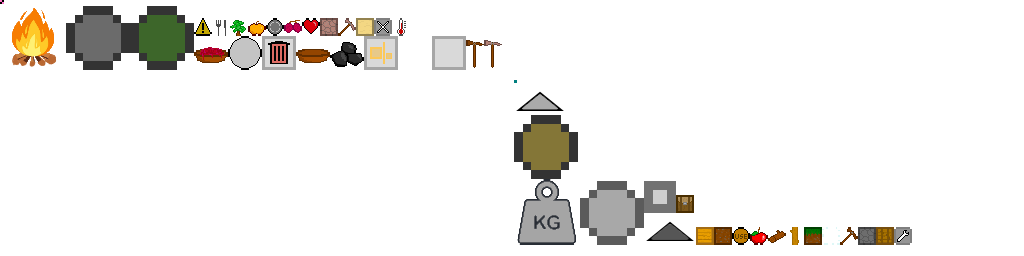
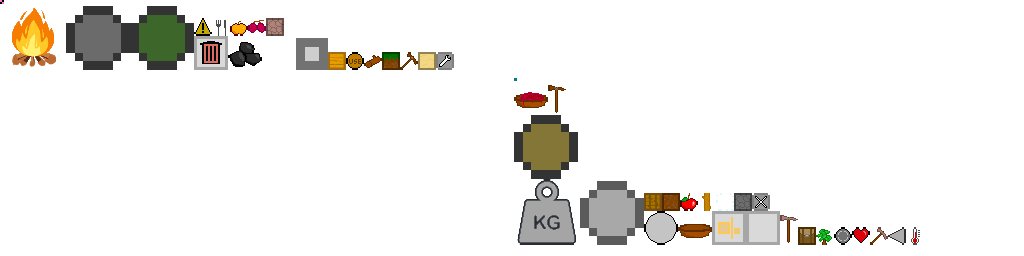
Performance boost. Changed HotSlots arrows.

Changed region(s): [[0.1875, 0.0625, 0.5, 0.2812], [0.625, 0.6875, 0.9062, 0.9688], [0.5, 0.3438, 0.5625, 0.4375]]

diff --git a/core/src/com/astetyne/expirium/client/gui/roots/game/GameRoot.java b/core/src/com/astetyne/expirium/client/gui/roots/game/GameRoot.java
@@ -27,14 +27,14 @@ import com.badlogic.gdx.utils.Align;
 
 public class GameRoot extends WidgetGroup implements GameRootable {
 
-    private final Table hotSlotsTable, debugInfoTable, playerStatsTable;
+    private final Table debugInfoTable, playerStatsTable;
 
     private final Label fpsLabel, locationLabel, entityLabel, callsLabel, buffersLabel, versionLabel, healthStat, foodStat;
     private final Image healthImage, foodImage;
     private final HotBarSlot toolSlot, materialSlot, consumableSlot;
     private HotBarSlot focusedSlot, lastFocused;
     public final ThumbStick moveTS, breakTS;
-    private final SwitchArrow switchArrowUp, switchArrowDown;
+    private final SwitchArrow switchArrowLeft, switchArrowRight;
     private final Image inventoryButton, consumeButton, buildViewButton, settingsButton;
     private Actor activeLeftActor;
 
@@ -50,8 +50,8 @@ public class GameRoot extends WidgetGroup implements GameRootable {
         lastFocused = toolSlot;
         focusedSlot = toolSlot;
 
-        switchArrowUp = new SwitchArrow(Res.SWITCH_ARROW_STYLE, UIInteractType.SWITCH_UP, false);
-        switchArrowDown = new SwitchArrow(Res.SWITCH_ARROW_STYLE, UIInteractType.SWITCH_DOWN, true);
+        switchArrowLeft = new SwitchArrow(Res.ARROW, UIInteractType.SWITCH_UP, false);
+        switchArrowRight = new SwitchArrow(Res.ARROW, UIInteractType.SWITCH_DOWN, true);
         inventoryButton = new Image(GuiRes.INV.getDrawable());
         consumeButton = new Image(GuiRes.USE_ICON.getDrawable());
         buildViewButton = new Image(GuiRes.WARNING_ICON.getDrawable());
@@ -89,7 +89,6 @@ public class GameRoot extends WidgetGroup implements GameRootable {
         moveTS = new ThumbStick(GameScreen.get().getPlayerData().getThumbStickData1(), Res.THUMB_STICK_STYLE);
         breakTS = new ThumbStick(GameScreen.get().getPlayerData().getThumbStickData2(), Res.THUMB_STICK_STYLE);
 
-        hotSlotsTable = new Table();
         debugInfoTable = new Table();
         playerStatsTable = new Table();
 
@@ -107,14 +106,6 @@ public class GameRoot extends WidgetGroup implements GameRootable {
 
         healthStat = new Label("0%", Res.LABEL_STYLE);
         foodStat = new Label("0%", Res.LABEL_STYLE);
-
-        hotSlotsTable.add(switchArrowUp).padBottom(10).colspan(3);
-        hotSlotsTable.row();
-        hotSlotsTable.add(toolSlot).padRight(20).width(120).height(Utils.percFromW(120));
-        hotSlotsTable.add(materialSlot).padRight(20).width(120).height(Utils.percFromW(120));;
-        hotSlotsTable.add(consumableSlot).width(120).height(Utils.percFromW(120));;
-        hotSlotsTable.row();
-        hotSlotsTable.add(switchArrowDown).padTop(10).colspan(3);
 
         if(Consts.DEBUG) {
             debugInfoTable.add(fpsLabel).left().height(50).padTop(10);
@@ -143,7 +134,6 @@ public class GameRoot extends WidgetGroup implements GameRootable {
         versionLabel.setBounds(140, 890, 200, 100);
         addActor(versionLabel);
         debugInfoTable.setBounds(0, 300, 500, 400);
-        if(Consts.DEBUG) debugInfoTable.setDebug(true);
         debugInfoTable.align(Align.topLeft);
         addActor(debugInfoTable);
         playerStatsTable.setBounds(1800, 850, 200, 150);
@@ -153,9 +143,27 @@ public class GameRoot extends WidgetGroup implements GameRootable {
         addActor(inventoryButton);
         moveTS.setBounds(140, 100, 320, Utils.percFromW(320));
         addActor(moveTS);
-        hotSlotsTable.setBounds(700, 50, 600, 500);
-        hotSlotsTable.align(Align.bottom);
-        addActor(hotSlotsTable);
+
+        int slotW = 120;
+        int slotH = (int) Utils.percFromW(slotW);
+        int arrowW = 100;
+        int arrowH = (int) Utils.percFromW(arrowW);
+        int gapBars = 20;
+        int gapArrows = 40;
+        int totalW = 2*arrowW + 2*gapBars + 2*gapArrows + 3*slotW;
+        int leftB = 1000 - totalW/2;
+
+        switchArrowLeft.setBounds(leftB, 50, arrowW, arrowH);
+        toolSlot.setBounds(leftB + arrowW + gapArrows, 50, slotW, slotH);
+        materialSlot.setBounds(leftB + arrowW + gapArrows + gapBars + slotW, 50, slotW, slotH);
+        consumableSlot.setBounds(leftB + arrowW + gapArrows + 2*gapBars + 2*slotW, 50, slotW, slotH);
+        switchArrowRight.setBounds(leftB + arrowW + 2*gapArrows + 2*gapBars + 3*slotW, 50, arrowW, arrowH);
+
+        addActor(switchArrowLeft);
+        addActor(toolSlot);
+        addActor(materialSlot);
+        addActor(consumableSlot);
+        addActor(switchArrowRight);
 
         breakTS.setBounds(1540, 100, 320, Utils.percFromW(320));
         addActor(breakTS);

diff --git a/core/src/com/astetyne/expirium/client/Res.java b/core/src/com/astetyne/expirium/client/Res.java
@@ -1,7 +1,6 @@
 package com.astetyne.expirium.client;
 
 import com.astetyne.expirium.client.gui.widget.BaseGrid;
-import com.astetyne.expirium.client.gui.widget.SwitchArrow;
 import com.astetyne.expirium.client.gui.widget.ThumbStick;
 import com.astetyne.expirium.client.resources.GuiRes;
 import com.badlogic.gdx.Gdx;
@@ -28,20 +27,17 @@ public class Res {
     public static TextField.TextFieldStyle TEXT_FIELD_STYLE;
     public static Label.LabelStyle LABEL_STYLE, TITLE_LABEL_STYLE;
     public static ThumbStick.ThumbStickStyle THUMB_STICK_STYLE;
-    public static SwitchArrow.SwitchArrowStyle SWITCH_ARROW_STYLE;
     public static BaseGrid.BaseGridStyle BASE_GRID_STYLE;
+    public static TextureRegion ARROW;
 
     // entities
     public static Animation<TextureRegion> PLAYER_IDLE_ANIM;
     public static Animation<TextureRegion> PLAYER_MOVE_ANIM;
     public static Animation<TextureRegion> PLAYER_INTERACT_ANIM;
 
-    public static void loadTextures() {
+    public static void loadTextures(TextureAtlas gui, TextureAtlas ent) {
 
         Animation.PlayMode loop_pong = Animation.PlayMode.LOOP_PINGPONG;
-
-        TextureAtlas gui = new TextureAtlas("gui.atlas");
-        TextureAtlas ent = new TextureAtlas("entities.atlas");
 
         /*FreeTypeFontGenerator gen = new FreeTypeFontGenerator(Gdx.files.internal("LadylikeBB.ttf"));
         //FreeTypeFontGenerator gen = new FreeTypeFontGenerator(Gdx.files.internal("Life is goofy.ttf"));
@@ -67,8 +63,7 @@ public class Res {
         Drawable cursor = new TextureRegionDrawable(gui.findRegion("cursor"));
         TextureRegion tsBack = gui.findRegion("thumb_stick_back");
         TextureRegion tsFore = gui.findRegion("thumb_stick_fore");
-        TextureRegion switchArrowUp = gui.findRegion("switch_arrow_up");
-        TextureRegion switchArrowUpPressed = gui.findRegion("switch_arrow_up_pressed");
+        ARROW = gui.findRegion("switch_arrow");
         TextureRegion invTile = gui.findRegion("inv_tile");
         TextureRegion invTileSplit = gui.findRegion("inv_tile_split");
         TextureRegion invTileThrow = gui.findRegion("trash_icon");
@@ -81,7 +76,6 @@ public class Res {
         LABEL_STYLE = new Label.LabelStyle(MAIN_FONT, Color.WHITE);
         TITLE_LABEL_STYLE = new Label.LabelStyle(TITLE_FONT, Color.WHITE);
         THUMB_STICK_STYLE = new ThumbStick.ThumbStickStyle(tsBack, tsFore);
-        SWITCH_ARROW_STYLE = new SwitchArrow.SwitchArrowStyle(switchArrowUp, switchArrowUpPressed);
         BASE_GRID_STYLE = new BaseGrid.BaseGridStyle(invTile, invTileThrow, invTileSplit);
 
         // entities

diff --git a/core/src/com/astetyne/expirium/client/gui/widget/SwitchArrow.java b/core/src/com/astetyne/expirium/client/gui/widget/SwitchArrow.java
@@ -2,6 +2,7 @@ package com.astetyne.expirium.client.gui.widget;
 
 import com.astetyne.expirium.client.ExpiGame;
 import com.astetyne.expirium.server.core.world.inventory.UIInteractType;
+import com.badlogic.gdx.graphics.Color;
 import com.badlogic.gdx.graphics.g2d.Batch;
 import com.badlogic.gdx.graphics.g2d.TextureRegion;
 import com.badlogic.gdx.scenes.scene2d.InputEvent;
@@ -10,15 +11,15 @@ import com.badlogic.gdx.scenes.scene2d.ui.Widget;
 
 public class SwitchArrow extends Widget {
 
-    private final SwitchArrowStyle style;
+    private final TextureRegion texture;
     private boolean pressed;
-    private final boolean rotated;
+    private final boolean toRight;
 
-    public SwitchArrow(SwitchArrowStyle style, UIInteractType onClick, boolean rotated) {
+    public SwitchArrow(TextureRegion texture, UIInteractType onClick, boolean toRight) {
 
-        this.style = style;
+        this.texture = texture;
         pressed = false;
-        this.rotated = rotated;
+        this.toRight = toRight;
 
         addListener(new InputListener() {
             @Override
@@ -37,38 +38,15 @@ public class SwitchArrow extends Widget {
 
     @Override
     public void draw(Batch batch, float parentAlpha) {
+
         if(pressed) {
-            if(rotated) {
-                batch.draw(style.pressed, getX(), getY(), getWidth()/2, getHeight()/2, getWidth(), getHeight(), 1,1, 180);
-            }else {
-                batch.draw(style.pressed, getX(), getY(), getWidth(), getHeight());
-            }
-        }else {
-            if(rotated) {
-                batch.draw(style.unpressed, getX(), getY(), getWidth()/2, getHeight()/2, getWidth(), getHeight(), 1,1, 180);
-            }else {
-                batch.draw(style.unpressed, getX(), getY(), getWidth(), getHeight());
-            }
+            batch.setColor(Color.GRAY);
         }
-    }
 
-    @Override
-    public float getPrefWidth() {
-        return 100;
-    }
-
-    @Override
-    public float getPrefHeight() {
-        return 60;
-    }
-
-    public static class SwitchArrowStyle {
-
-        final TextureRegion unpressed, pressed;
-
-        public SwitchArrowStyle(TextureRegion unpressed, TextureRegion pressed) {
-            this.unpressed = unpressed;
-            this.pressed = pressed;
+        if(toRight) {
+            batch.draw(texture, getX(), getY(), getWidth()/2, getHeight()/2, getWidth(), getHeight(), -1, 1, 0);
+        }else {
+            batch.draw(texture, getX(), getY(), getWidth(), getHeight());
         }
     }
 

diff --git a/core/src/com/astetyne/expirium/client/ExpiGame.java b/core/src/com/astetyne/expirium/client/ExpiGame.java
@@ -17,6 +17,7 @@ import com.astetyne.expirium.server.ServerPreferences;
 import com.badlogic.gdx.Game;
 import com.badlogic.gdx.Gdx;
 import com.badlogic.gdx.graphics.g2d.SpriteBatch;
+import com.badlogic.gdx.graphics.g2d.TextureAtlas;
 
 import java.net.InetAddress;
 import java.util.LinkedList;
@@ -52,12 +53,16 @@ public class ExpiGame extends Game implements ClientFailListener, ServerFailList
 
 	@Override
 	public void create () {
-		GuiRes.loadTextures();
-		BGRes.loadTextures();
-		Res.loadTextures();
-		TileTex.loadTextures();
-		TileTexAnim.loadTextures();
-		Item.loadTextures();
+		TextureAtlas world = new TextureAtlas("world.atlas");
+		TextureAtlas gui = new TextureAtlas("gui.atlas");
+		TextureAtlas ent = new TextureAtlas("entities.atlas");
+		TextureAtlas bg = new TextureAtlas("background.atlas");
+		BGRes.loadTextures(bg);
+		GuiRes.loadTextures(gui);// must be called before Res
+		Res.loadTextures(gui, ent);
+		TileTex.loadTextures(world);
+		TileTexAnim.loadTextures(world);
+		Item.loadTextures(gui);
 		batch = new SpriteBatch();
 		setScreen(new MenuScreen());
 	}

diff --git a/core/src/com/astetyne/expirium/client/gui/widget/StorageGrid.java b/core/src/com/astetyne/expirium/client/gui/widget/StorageGrid.java
@@ -49,12 +49,14 @@ public class StorageGrid extends Table {
     public void rebuild() {
         int mlt = Consts.INV_TILE_MLT;
         clear();
-        gridCell = add(grid).width(data.columns * mlt).height(Utils.percFromW(data.rows * mlt)).colspan(2);
+        gridCell = add(grid).width(data.columns * mlt).height(Utils.percFromW(data.rows * mlt));
         row();
-        add(infoLabel).expandX().align(Align.center).padTop(10).colspan(2);
+        add(infoLabel).expandX().align(Align.center).padTop(10);
         row();
-        add(weightImage).width(60).height(Utils.percFromW(60)).align(Align.left).padTop(20);
-        add(weightLabel).expandX().align(Align.left).pad(20, 20, 0,0);
+        Table t = new Table();
+        t.add(weightImage).width(60).height(Utils.percFromW(60)).padTop(10);
+        t.add(weightLabel).pad(10, 20, 0,0);
+        add(t);
         setTouchable(Touchable.enabled);
         grid.setZIndex(100);
     }

diff --git a/core/src/com/astetyne/expirium/server/core/world/WorldFileManager.java b/core/src/com/astetyne/expirium/server/core/world/WorldFileManager.java
@@ -46,12 +46,14 @@ public class WorldFileManager {
     public void saveGameServer() {
 
         System.out.println("Saving server...");
+        long start = System.nanoTime();
 
         try {
 
             FileHandle file = Gdx.files.local(worldsPath + worldName + worldDataPath);
 
-            DataOutputStream out = new DataOutputStream(new BufferedOutputStream(file.write(false)));
+            DataOutputStream out = new DataOutputStream(new BufferedOutputStream(file.write(false), 131072));
+
             server.writeData(out);
             out.close();
 
@@ -63,7 +65,8 @@ public class WorldFileManager {
             e.printStackTrace();
         }
 
-        System.out.println("Saving done.");
+        long end = System.nanoTime();
+        System.out.println("Saving done. Took: "+(end-start)/1000000f+" ms");
 
     }
 

diff --git a/core/src/com/astetyne/expirium/client/resources/GuiRes.java b/core/src/com/astetyne/expirium/client/resources/GuiRes.java
@@ -32,13 +32,12 @@ public enum GuiRes {
         this.ninepatch = ninepatch;
     }
 
-    public static void loadTextures() {
-        TextureAtlas gui = new TextureAtlas("gui.atlas");
+    public static void loadTextures(TextureAtlas guiAtlas) {
         for(GuiRes val : values()) {
             if(val.ninepatch) {
-                val.drawable = new NinePatchDrawable(gui.createPatch(val.name));
+                val.drawable = new NinePatchDrawable(guiAtlas.createPatch(val.name));
             }else {
-                val.drawable = new TextureRegionDrawable(gui.findRegion(val.name));
+                val.drawable = new TextureRegionDrawable(guiAtlas.findRegion(val.name));
             }
         }
     }

diff --git a/core/src/com/astetyne/expirium/client/resources/BGRes.java b/core/src/com/astetyne/expirium/client/resources/BGRes.java
@@ -22,13 +22,12 @@ public enum BGRes {
         this.ninepatch = ninepatch;
     }
 
-    public static void loadTextures() {
-        TextureAtlas gui = new TextureAtlas("background.atlas");
+    public static void loadTextures(TextureAtlas bg) {
         for(BGRes val : values()) {
             if(val.ninepatch) {
-                val.drawable = new NinePatchDrawable(gui.createPatch(val.name));
+                val.drawable = new NinePatchDrawable(bg.createPatch(val.name));
             }else {
-                val.drawable = new TextureRegionDrawable(gui.findRegion(val.name));
+                val.drawable = new TextureRegionDrawable(bg.findRegion(val.name));
             }
         }
     }

diff --git a/core/src/com/astetyne/expirium/client/gui/roots/game/DoubleInventoryRoot.java b/core/src/com/astetyne/expirium/client/gui/roots/game/DoubleInventoryRoot.java
@@ -43,8 +43,10 @@ public class DoubleInventoryRoot extends Table implements GameRootable {
             }
         });
 
-        storageCell1 = add(storage1).padRight(200);
-        storageCell2 = add(storage2);
+        // width is here just for making sure, the inv label will not expand table when text is wider
+        storageCell1 = add(storage1).width(800).height(Utils.percFromW(800)).padRight(200);
+        storageCell2 = add(storage2).width(800).height(Utils.percFromW(800));
+
         add(returnButton).width(Utils.percFromH(100)).height(100).align(Align.topRight);
 
         setTouchable(Touchable.enabled);

diff --git a/core/src/com/astetyne/expirium/client/resources/TileTex.java b/core/src/com/astetyne/expirium/client/resources/TileTex.java
@@ -35,9 +35,8 @@ public enum TileTex implements Textureable {
         this.regionName = regionName;
     }
 
-    public static void loadTextures() {
+    public static void loadTextures(TextureAtlas world) {
         System.out.println("Loading textures for tiles.");
-        TextureAtlas world = new TextureAtlas("world.atlas");
         for(TileTex tileTex : values()) {
             tileTex.textureRegion = world.findRegion(tileTex.regionName);
             //tileTex.textureRegion.getTexture().setFilter(Texture.TextureFilter.Nearest, Texture.TextureFilter.Nearest);

diff --git a/core/src/com/astetyne/expirium/client/resources/TileTexAnim.java b/core/src/com/astetyne/expirium/client/resources/TileTexAnim.java
@@ -23,10 +23,9 @@ public enum TileTexAnim implements Textureable {
         this.playMode = playMode;
     }
 
-    public static void loadTextures() {
-        TextureAtlas world = new TextureAtlas("world.atlas");
+    public static void loadTextures(TextureAtlas worldAtlas) {
         for(TileTexAnim tta : values()) {
-            tta.anim = new Animation<>(tta.interval, world.findRegions(tta.regionName), tta.playMode);
+            tta.anim = new Animation<>(tta.interval, worldAtlas.findRegions(tta.regionName), tta.playMode);
         }
     }
 

diff --git a/core/src/com/astetyne/expirium/client/utils/Consts.java b/core/src/com/astetyne/expirium/client/utils/Consts.java
@@ -7,7 +7,7 @@ public class Consts {
     public static final boolean DEBUG = false;
 
     // server
-    public static final long SAVE_INTERVAL = 10000; // in millis
+    public static final long SAVE_INTERVAL = 20000; // in millis
 
     // networking
     public static final int SERVER_PORT = 1414;
@@ -47,7 +47,7 @@ public class Consts {
     public static final int INTERACT_RADIUS = 6;
 
     // gui
-    public static final int INV_TILE_MLT = 120;
+    public static final int INV_TILE_MLT = 140;
 
 
 }
